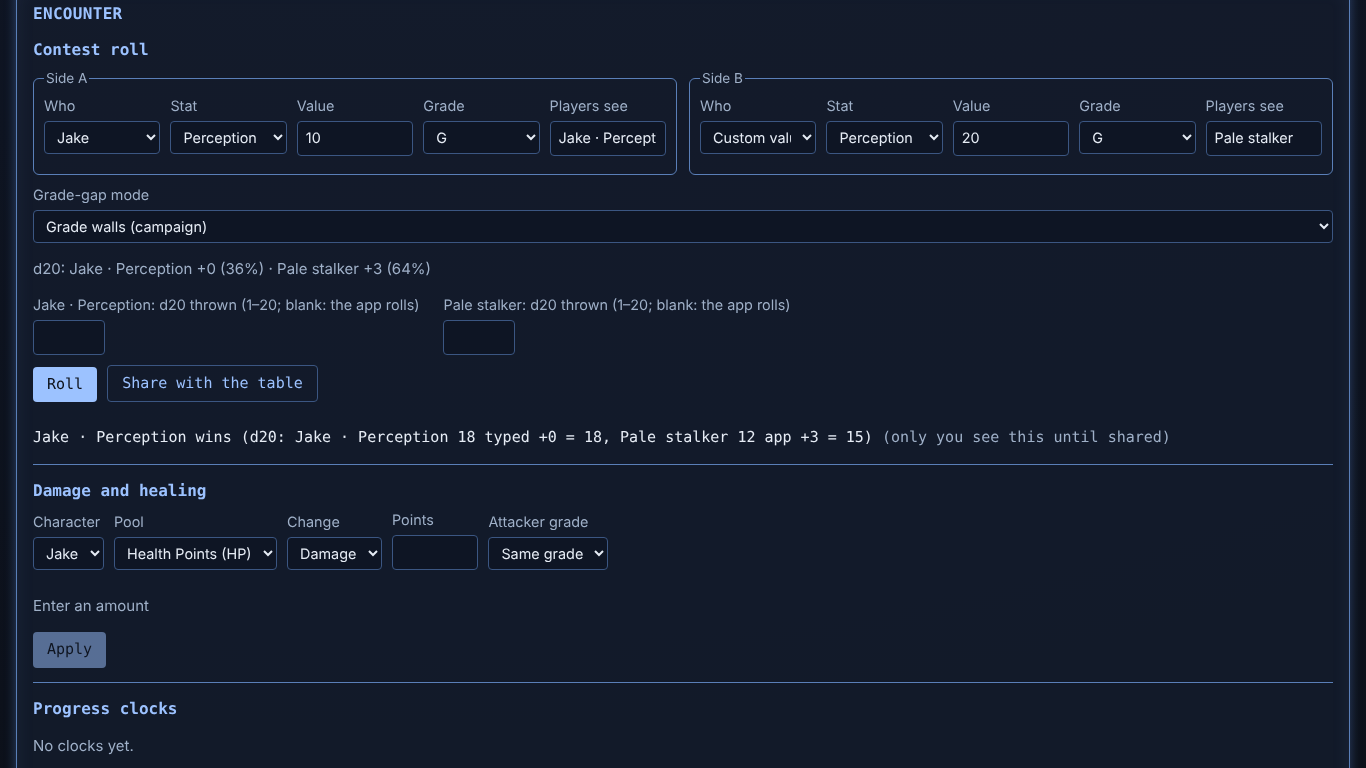
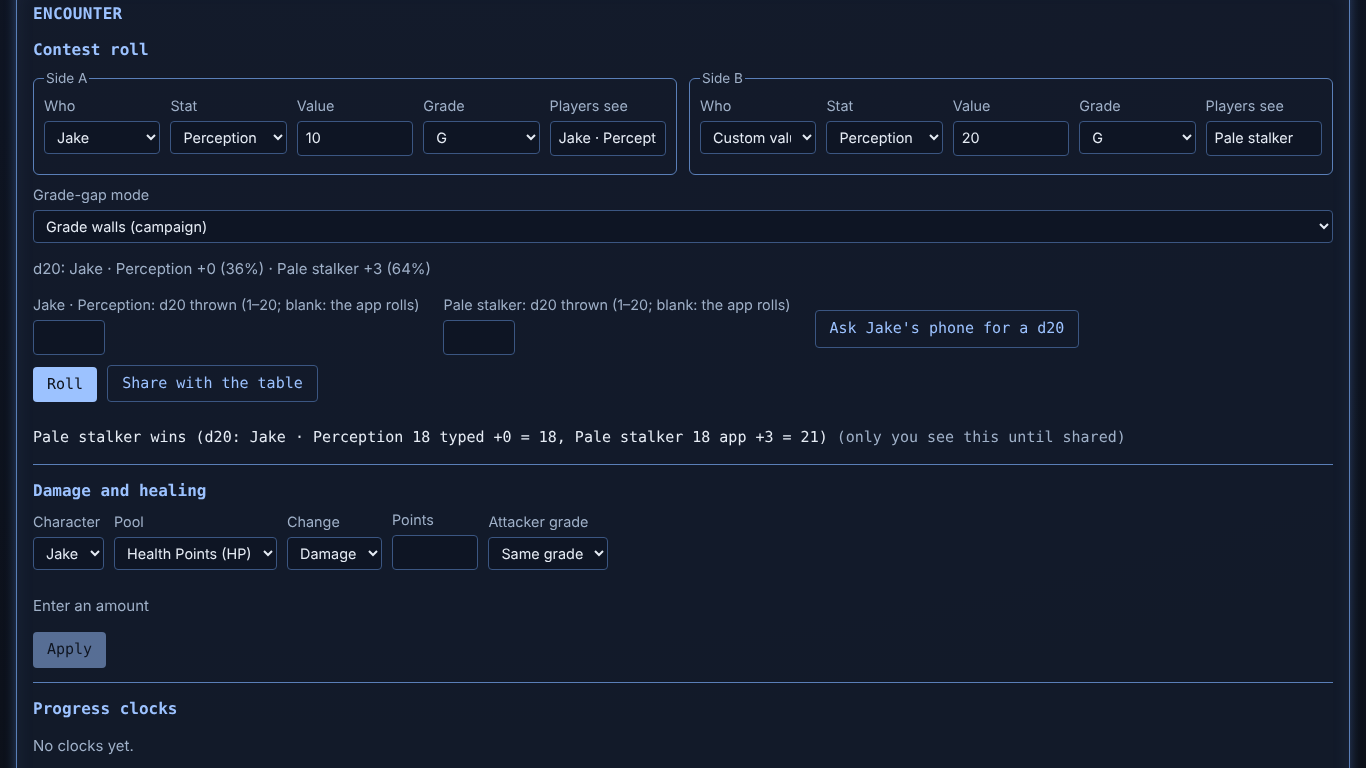
test(MK.2): phone roll e2e and screenshots; D314, Q96
Claude-Session: https://claude.ai/code/session_015YxiCbtyPomAoxXvuo4HcB

Changed region(s): [[0.0615, 0.5625, 0.8609, 0.5938], [0.6149, 0.4062, 0.7994, 0.4375]]

diff --git a/e2e/MK.2.spec.ts b/e2e/MK.2.spec.ts
@@ -95,3 +95,80 @@ test('a d20 contest with a typed and an app die reaches both screens', async ({ 
   // Canary: the custom side's stat value stays on the GM's side.
   expect(frames.join('\n')).not.toContain('"value":20');
 });
+
+test("the GM asks the player's phone for a d20; it rolls, and the NPC's die is typed", async ({
+  browser,
+}) => {
+  const gm = await browser.newPage({ viewport: { width: 1366, height: 768 } });
+  await gm.goto(`${server.url}/gm#key=${GM_KEY}`);
+  await gm.getByLabel('Campaign name').fill('Dice');
+  await gm.getByRole('button', { name: 'Create campaign' }).click();
+  const create = gm.locator('form[aria-labelledby="new-character"]');
+  await reveal(gm, create);
+  await create.getByLabel('Name', { exact: true }).fill('Jake');
+  await create.getByRole('button', { name: 'Create character' }).click();
+  await expect(gm.getByRole('heading', { level: 3, name: 'Jake', exact: true })).toBeVisible();
+  await openWindow(gm, 'rules-settings');
+  await gm.getByTestId('rules-rolls').getByRole('combobox').selectOption('d20');
+  await expect(gm.locator('section[aria-labelledby="rules-settings"]')).toContainText(
+    'Rolls: d20 + modifier.',
+  );
+
+  const phone = await browser.newPage({ viewport: { width: 390, height: 844 } });
+  const frames: string[] = [];
+  phone.on('websocket', (ws) => ws.on('framereceived', (f) => frames.push(String(f.payload))));
+  await phone.goto(server.url);
+  await phone.getByRole('link', { name: /Jake/ }).click();
+  await expect(phone.getByTestId('connection')).toHaveText('Connected');
+  await expect(phone.getByTestId('roll-prompt')).toHaveCount(0);
+
+  await openWindow(gm, 'encounter');
+  const roller = gm.locator('form[aria-labelledby="contest-roller"]');
+  const sideA = roller.getByRole('group', { name: 'Side A' });
+  const sideB = roller.getByRole('group', { name: 'Side B' });
+  await sideA.getByLabel('Who').selectOption({ label: 'Jake' });
+  await sideA.getByLabel('Stat').selectOption({ label: 'Perception' });
+  await sideB.getByLabel('Who').selectOption('custom');
+  await sideB.getByLabel('Stat').selectOption({ label: 'Perception' });
+  await sideB.getByRole('textbox', { name: 'Value', exact: true }).fill('20');
+  await sideB.getByRole('textbox', { name: 'Players see', exact: true }).fill('Pale stalker');
+  // Only Jake's side can be rolled on a phone; the custom side has no player.
+  await expect(roller.getByTestId('phone-roll-b')).toHaveCount(0);
+  await roller.getByRole('button', { name: "Ask Jake's phone for a d20" }).click();
+  await expect(roller.getByTestId('phone-roll-a')).toContainText("Waiting for Jake's d20");
+
+  // The phone asks; Jake taps Roll and the app rolls the die.
+  const prompt = phone.getByTestId('roll-prompt');
+  await expect(prompt).toContainText('Roll d20 for Perception (+0)');
+  await phone.screenshot({ path: path.join(shots, 'player-roll-prompt-390x844.png') });
+  await prompt.getByRole('button', { name: 'Roll', exact: true }).click();
+  await expect(prompt.getByTestId('roll-answer')).toContainText(
+    /You rolled (\d+) \(app\) \+0 = \1\. The GM has it\./,
+  );
+  const answer = (await prompt.getByTestId('roll-answer').textContent()) ?? '';
+  const die = /You rolled (\d+)/.exec(answer)?.[1] ?? '';
+  await expect(roller.getByTestId('phone-roll-a')).toContainText(`Jake threw ${die} (app)`);
+  await gm.screenshot({ path: path.join(shots, 'gm-phone-roll-1366x768.png') });
+
+  // The GM types the stalker's die thrown at the table and rolls.
+  // (Never a tie, so the result is one round: Jake's die is the app's.)
+  const theirs = die === '7' ? 5 : 4;
+  await roller.getByTestId('contest-dice').getByRole('textbox').nth(1).fill(String(theirs));
+  await roller.getByRole('button', { name: 'Roll' }).click();
+  const result = roller.getByTestId('contest-result');
+  await expect(result).toContainText(`${die} app +0 = ${die}`);
+  await expect(result).toContainText(`Pale stalker ${theirs} typed +3 = ${theirs + 3}`);
+  // The phone's request closes once its die is used.
+  await expect(prompt).toHaveCount(0);
+  await roller.getByRole('button', { name: 'Share with the table' }).click();
+
+  const popup = phone.getByTestId('contest-popup');
+  await expect(popup).toBeVisible();
+  await expect(popup.getByTestId('contest-dice-line').first()).toContainText(
+    `You: d20 ${die} (app) +0 = ${die}`,
+  );
+  await expect(popup).toContainText(`They: d20 ${theirs} (typed) +3 = ${theirs + 3}`);
+  await phone.screenshot({ path: path.join(shots, 'player-phone-contest-390x844.png') });
+  // Canary: the custom side's value stays with the GM.
+  expect(frames.join('\n')).not.toContain('"value":20');
+});

diff --git a/apps/web/test/encounterModel.test.ts b/apps/web/test/encounterModel.test.ts
@@ -246,7 +246,10 @@ describe('encounter model: contests (M7.3)', () => {
     });
     // App odds: no phone rolls.
     expect(
-      phoneRoller({ ...s, rules: DEFAULT_RULES }, { characterIds: ['jake'], stat: 'perception' }),
+      phoneRoller(
+        { ...s, rules: { ...s.rules, resolution: { ...s.rules.resolution, rolls: 'odds' } } },
+        { characterIds: ['jake'], stat: 'perception' },
+      ),
     ).toBeNull();
   });
 

diff --git a/apps/web/src/gm/Encounter.tsx b/apps/web/src/gm/Encounter.tsx
@@ -287,7 +287,7 @@ function ContestRoller({ state, busy, send, clear }: ToolProps) {
                 ) : (
                   <>
                     {r.name} threw {p.answer.die} ({p.answer.how === 'typed' ? 'typed' : 'app'}):
-                    used on Roll unless a die is typed above.
+                    used on Roll unless you type a die in its box.
                   </>
                 )}
               </p>

diff --git a/docs/DECISIONS.md b/docs/DECISIONS.md
@@ -342,3 +342,4 @@ Newest at the bottom. Format: ID · date · decision · why. D-numbers are writt
 - D310 · 2026-11-01 · ME.6 (e): the phone review lists the picks in one column (label above each card) with per-level stats and each pick's one-time bonus. · ME.A review and sweep B UX Medium.
 - D311 · 2026-11-01 · ME.6 review (replay): `evolution.chosen` goes to v3; the v2→v3 upcaster marks older choices `stepsV1`, and those replay under the ME.2 profession rules (skipped options become name-only offers, no "no longer apply" refusal, the held profession's distribution is not carried). `professionOffered` stays derived when a release is folded, so a release stored before ME.6 and chosen after the update gets the ME.6 rules. `evolution-steps.state.json` is back to its pre-ME.6 content (only `schemaVersion` differs). · Stored logs must replay unchanged (CLAUDE.md, golden rule).
 - D312 · 2026-11-01 · MK.2 (part 1): Rules settings has a **Rolls** select (App odds / d20 + modifier) that saves at once as a `rules.set` (disabled while other rule edits are unsaved). With d20 on, the GM's Contest roll shows each side's modifier and its d20 chance (not the ratio odds), and a box per side for a d20 thrown at the table (1–20; blank: the app rolls); a typed die counts for the first round only, and a tie is rolled again by the app. The GM uses the same box to enter a player's die for them. The player view gains `rollModifiers` (each stat's modifier from its effective value, only while d20 is on), shown as `[+N]` beside each stat; the contest pop-up lists each round's dice ("You: d20 18 (typed) +0 = 18 · They: d20 9 (app) +3 = 12"). Still to build: the phone's own "Roll d20 for <Stat> (+N)" prompt (a GM roll request, answered on the phone with Roll or a typed die). · DESIGN §7 "Dice", §9.
+- D314 · 2026-11-01 · MK.2 (part 2): the GM asks a player's phone for a d20 from the contest roller (a button per side with exactly one character and a stat, d20 campaigns only): `roll.requested` (one open request per character; a new one replaces it), `roll.answered` (player or GM; a typed die 1–20, or without one the app rolls with the command's random source and the die is stored in the event so replay is exact), `roll.cleared` (the GM withdrew it, or Roll used its die). The phone shows "Roll d20 for <Stat> (+N)" with Roll and a 1–20 box, then "You rolled N (typed/app) +M = T. The GM has it."; the player view carries only the viewer's own request (`rollRequest`: id, stat, answer). On the console a die typed in a side's box wins over the phone's answer; the phone's die counts for the first round only (D312). No player-log notice: the prompt itself is the notice.

diff --git a/docs/QUESTIONS.md b/docs/QUESTIONS.md
@@ -728,3 +728,11 @@ DESIGN/ROADMAP; do not re-apply them.
     round; any re-roll after a tie is rolled by the app, so the table does
     not wait for a second throw. Default: as built. Option: ask for a
     second typed die on a tie.
+
+96. **Asking a phone for a roll (MK.2, D314).** The contest roller has an
+    "Ask <name>'s phone for a d20" button for a side that is one player's
+    character and a stat. The phone answers with **Roll** (the app rolls) or
+    the die they threw; the console shows it and uses it on the next Roll,
+    unless you type a die for that side yourself. A new ask replaces an
+    unanswered one. Default: as built. Option: ask every player in a
+    group-side at once, or ask from the party cards without opening a contest.
